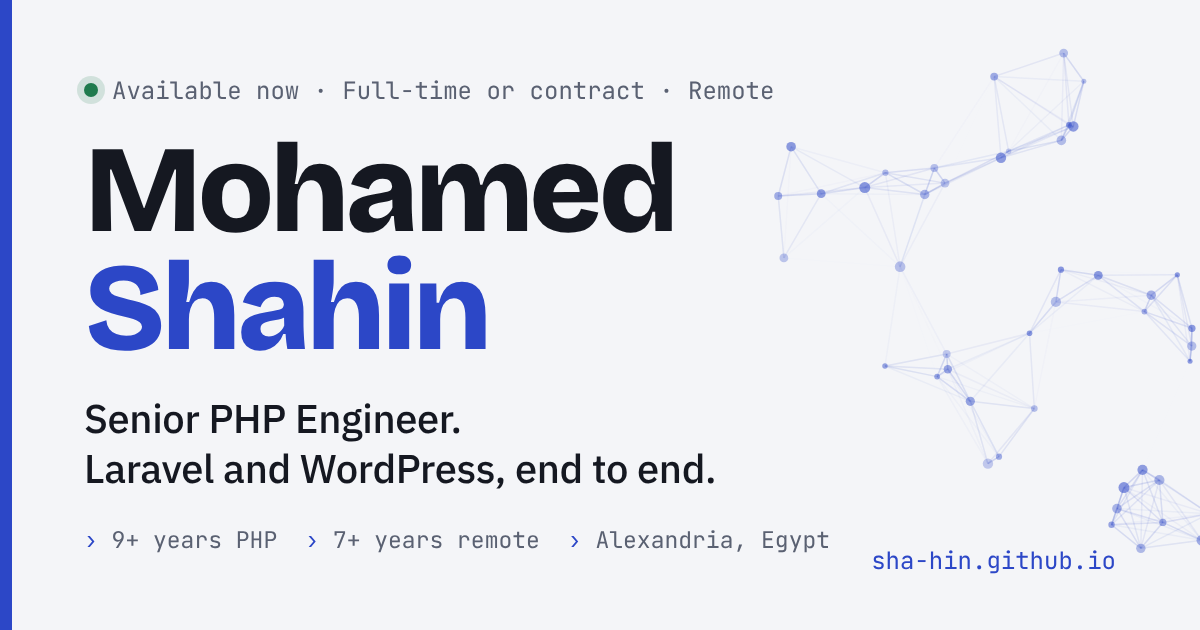
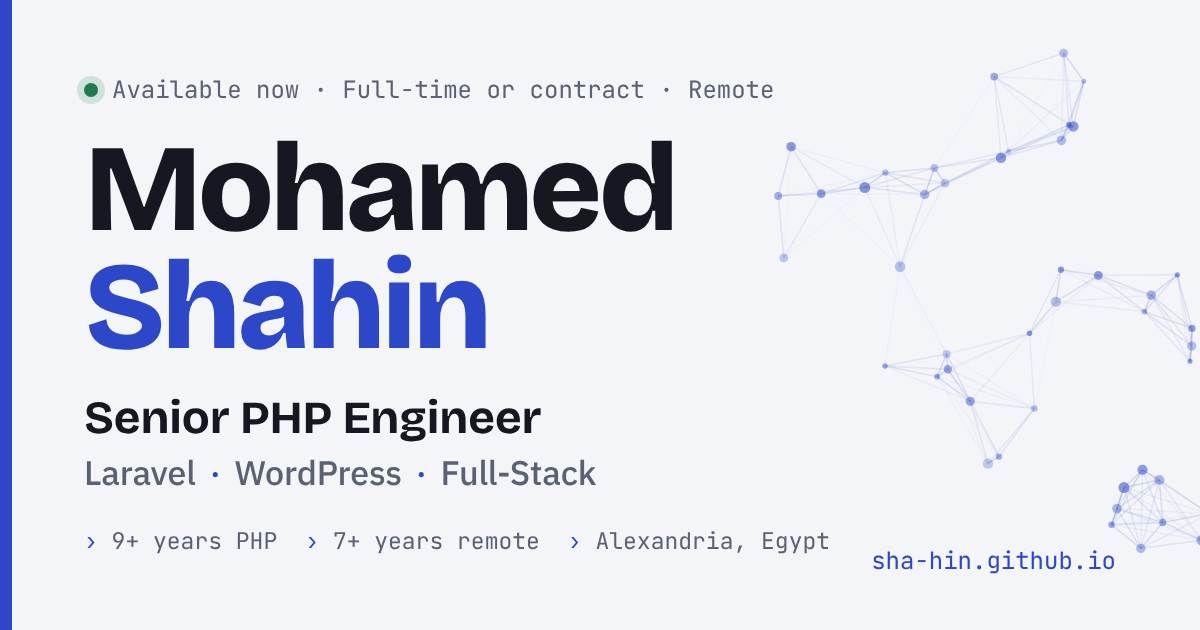
Match headline to CV: Senior PHP Engineer, Laravel · WordPress · Full-Stack
Claude-Session: https://claude.ai/code/session_01CsHYu4G12v7fMJ4uKmRUHk

diff --git a/index.html b/index.html
@@ -3,18 +3,18 @@
 <head>
 <meta charset="utf-8">
 <meta name="viewport" content="width=device-width, initial-scale=1, viewport-fit=cover">
-<meta name="description" content="Mohamed Shahin, Senior PHP Engineer. Laravel and WordPress, end to end, with AI-assisted development.">
+<meta name="description" content="Mohamed Shahin, Senior PHP Engineer: Laravel, WordPress and full-stack development, with AI-assisted development.">
 <meta property="og:title" content="Mohamed Shahin">
-<meta property="og:description" content="Senior PHP Engineer. Laravel and WordPress, end to end.">
+<meta property="og:description" content="Senior PHP Engineer · Laravel · WordPress · Full-Stack · AI-Assisted Development">
 <meta property="og:type" content="website">
 <meta property="og:url" content="https://sha-hin.github.io/">
 <meta property="og:image" content="https://sha-hin.github.io/og.png">
 <meta property="og:image:width" content="1200">
 <meta property="og:image:height" content="630">
-<meta property="og:image:alt" content="Mohamed Shahin, Senior PHP Engineer. Laravel and WordPress, end to end.">
+<meta property="og:image:alt" content="Mohamed Shahin, Senior PHP Engineer. Laravel, WordPress, Full-Stack.">
 <meta name="twitter:card" content="summary_large_image">
 <meta name="twitter:title" content="Mohamed Shahin">
-<meta name="twitter:description" content="Senior PHP Engineer. Laravel and WordPress, end to end.">
+<meta name="twitter:description" content="Senior PHP Engineer · Laravel · WordPress · Full-Stack · AI-Assisted Development">
 <meta name="twitter:image" content="https://sha-hin.github.io/og.png">
 <link rel="canonical" href="https://sha-hin.github.io/">
 <link rel="icon" href="/favicon.ico" sizes="any">
@@ -23,7 +23,7 @@
 <meta name="theme-color" content="#F4F5F8" media="(prefers-color-scheme: light)">
 <meta name="theme-color" content="#0F1117" media="(prefers-color-scheme: dark)">
 <style>:root{padding-top:env(safe-area-inset-top,0px);padding-bottom:env(safe-area-inset-bottom,0px)}body{margin:0;-webkit-text-size-adjust:100%}img{max-width:100%}[hidden]{display:none!important}</style>
-<title>Mohamed Shahin</title>
+<title>Mohamed Shahin · Senior PHP Engineer</title>
 <script defer src="https://cloud.umami.is/script.js" data-website-id="37b7903a-c779-475f-b20f-18fe98cd4d70" data-domains="sha-hin.github.io"></script>
 <script>try{var u=location.hash==="#no-ct"||/[?&]no-ct\b/.test(location.search);if(u)sessionStorage.setItem("no-ct","1");if(u||sessionStorage.getItem("no-ct")==="1")document.documentElement.classList.add("no-ct")}catch(e){if(location.hash==="#no-ct")document.documentElement.classList.add("no-ct")}</script>
 <script>try{var t=localStorage.getItem("theme");if(t==="light"||t==="dark")document.documentElement.setAttribute("data-theme",t)}catch(e){}</script>
@@ -64,7 +64,10 @@ h1,h2,h3{font-family:var(--display);text-wrap:balance;margin:0;line-height:1.1}
 .dot{width:8px;height:8px;border-radius:50%;background:var(--ok);box-shadow:0 0 0 4px color-mix(in srgb, var(--ok) 20%, transparent)}
 .hero h1{font-size:clamp(44px, 9vw, 84px);font-weight:800;letter-spacing:-.03em}
 .hero h1 span{color:var(--accent)}
-.role{font-family:var(--display);font-weight:500;font-size:clamp(20px,3.2vw,26px);color:var(--fg);max-width:30ch}
+.role{display:flex;flex-direction:column;gap:6px;margin:0;font-family:var(--display);color:var(--fg)}
+.role .title{font-weight:700;font-size:clamp(24px,3.8vw,32px);letter-spacing:-.015em;line-height:1.15}
+.role .stack{font-weight:500;font-size:clamp(18px,2.6vw,22px);color:var(--muted);letter-spacing:-.005em}
+.role .stack i{font-style:normal;color:var(--accent);margin:0 .45em}
 .lede{color:var(--muted);max-width:62ch;margin:0}
 .ai-badge{display:inline-flex;align-items:center;gap:10px;align-self:flex-start;width:fit-content;margin:0;padding:8px 16px 8px 12px;border-radius:999px;border:1px solid color-mix(in srgb,var(--accent) 40%,var(--line));background:var(--accent-soft);font-size:16px;line-height:1.2}
 .ai-badge svg{width:18px;height:18px;flex:none;fill:var(--accent)}
@@ -343,7 +346,7 @@ footer{font-family:var(--mono);font-size:12px;color:var(--muted)}
     <canvas class="field" aria-hidden="true"></canvas>
     <div class="status"><span class="dot"></span><span class="avail">Available now</span><span class="sep" aria-hidden="true"> · </span><span class="terms">Full-time or contract · Remote</span></div>
     <h1>Mohamed <span>Shahin</span></h1>
-    <p class="role">Senior PHP Engineer. Laravel and WordPress, end to end.</p>
+    <p class="role"><span class="title">Senior PHP Engineer</span><span class="stack">Laravel<i>·</i>WordPress<i>·</i>Full-Stack</span></p>
     <p class="ai-badge"><svg viewBox="0 0 24 24" aria-hidden="true"><path d="M12 2l1.9 5.6L19.5 9.5l-5.6 1.9L12 17l-1.9-5.6L4.5 9.5l5.6-1.9z"/><path d="M19 15l.8 2.2L22 18l-2.2.8L19 21l-.8-2.2L16 18l2.2-.8z"/></svg><b>AI-assisted development</b><span>with Claude Code</span></p>
     <p class="lede"><b>9+ years of PHP</b>, <b>7+ years remote</b> for Copenhagen-based product companies. I was the founding engineer of a GDPR-compliant multi-tenant Laravel SaaS used by Danish schools and a municipality, and I built a cybersecurity vendor's CRM, then moved it off WordPress onto Laravel to fix its performance. Today I build with <b>Claude Code</b> every day and review every change before it ships.</p>
     <ul class="facts">
